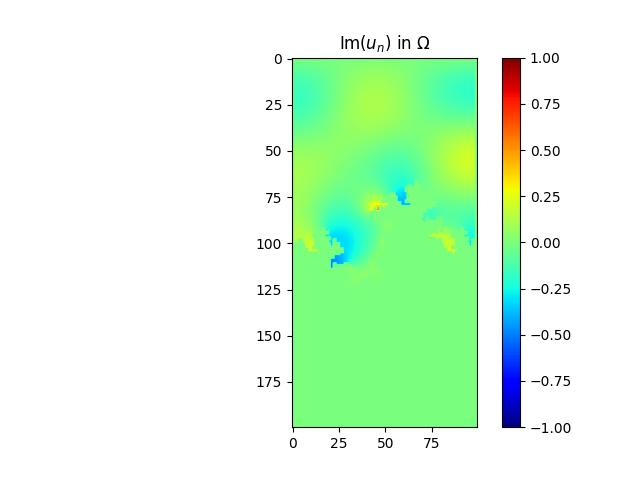
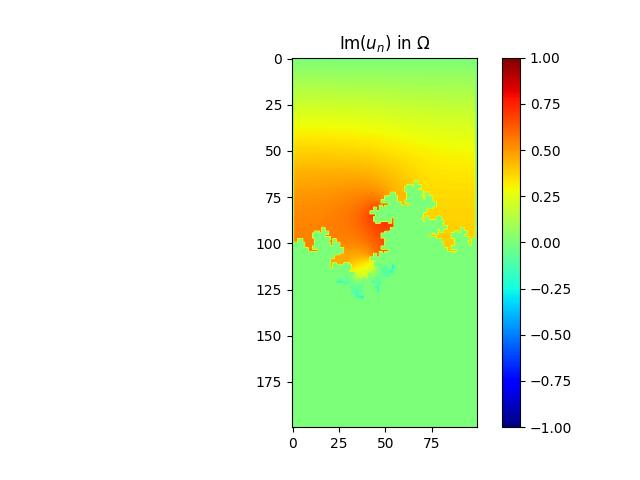
demo_controle fonctionne

Changed region(s): [[0.4375, 0.125, 0.75, 0.625]]

diff --git a/demo_control_polycopie2023.py b/demo_control_polycopie2023.py
@@ -21,9 +21,6 @@ def compute_J_prim(alpha, u, p) :
         for j in range(N) :
             res[i,j]=np.real(-alpha[i,j]*u[i,j]*p[i,j])
 
-def adj_member(u) :
-    return
-
 def your_optimization_procedure(domain_omega, spacestep, omega, f, f_dir, f_neu, f_rob,
                            beta_pde, alpha_pde, alpha_dir, beta_neu, beta_rob, alpha_rob,
                            Alpha, mu, chi, V_obj):
@@ -39,7 +36,7 @@ def your_optimization_procedure(domain_omega, spacestep, omega, f, f_dir, f_neu,
 
     k = 0
     (M, N) = np.shape(domain_omega)
-    numb_iter = 100
+    numb_iter = 2
     energy = np.zeros((numb_iter+1, 1), dtype=np.float64)
     while k < numb_iter and mu > 10**(-5):
         print('1. computing solution of Helmholtz problem, i.e., u')
@@ -47,15 +44,17 @@ def your_optimization_procedure(domain_omega, spacestep, omega, f, f_dir, f_neu,
         print('2. computing solution of adjoint problem, i.e., p')
         p=processing.solve_helmholtz(domain_omega, spacestep, omega, np.conjugate(-2*u), np.zeros_like(domain_omega), f_neu, f_rob, beta_pde, alpha_pde, alpha_dir, beta_neu, beta_rob, alpha_rob)
         print('3. computing objective function, i.e., energy')
-        J=your_compute_objective_function(domain_omega, u, spacestep)
+        J=your_compute_objective_function(u)
+        energy[k]=J
         J_prim=compute_J_prim(alpha_rob, u, p)
         print('4. computing parametric gradient')
+        ene=J
         while ene >= energy[k] and mu > 10 ** -5:
             print('    a. computing gradient descent')
             print('    b. computing projected gradient')
             print('    c. computing solution of Helmholtz problem, i.e., u')
             print('    d. computing objective function, i.e., energy (E)')
-            ene = your_compute_objective_function(domain_omega, u, spacestep)
+            ene = your_compute_objective_function(u)-1
             bool_a=True
             if bool_a:
                 # The step is increased if the energy decreased
@@ -66,11 +65,12 @@ def your_optimization_procedure(domain_omega, spacestep, omega, f, f_dir, f_neu,
         k += 1
 
     print('end. computing solution of Helmholtz problem, i.e., u')
+    grad=0
 
     return chi, energy, u, grad
 
 
-def your_compute_objective_function(domain_omega, u, spacestep):
+def your_compute_objective_function(u):
     """
     This function compute the objective function:
     J(u,domain_omega)= \int_{domain_omega}||u||^2 
@@ -88,7 +88,7 @@ def your_compute_objective_function(domain_omega, u, spacestep):
     energy = 0
     for i in range(M) :
         for j in range(N) :
-            energy+=u[i,j]**2
+            energy+=abs(u[i,j])**2
 
     return energy
 
@@ -130,6 +130,9 @@ if __name__ == '__main__':
     # planar wave defined on top
     f_dir[:, :] = 0.0
     f_dir[0, 0:N] = 1.0
+    '''
+    faut que ce soit égal à g sur Gamma_dir
+    '''
     # spherical wave defined on top
     #f_dir[:, :] = 0.0
     #f_dir[0, int(N/2)] = 10.0
@@ -146,6 +149,9 @@ if __name__ == '__main__':
     # -- this is the function you have written during your project
     import compute_alpha
     # Alpha = compute_alpha.solve_alpha(...)
+    '''
+    à modifier également
+    '''
     Alpha=1+1j
     alpha_rob = Alpha * chi
 
@@ -194,7 +200,5 @@ if __name__ == '__main__':
     err = un - u0
     postprocessing._plot_error(err)
     postprocessing._plot_energy_history(energy)
-
-    matplotlib.pyplot.show()
 
     print('End.')
